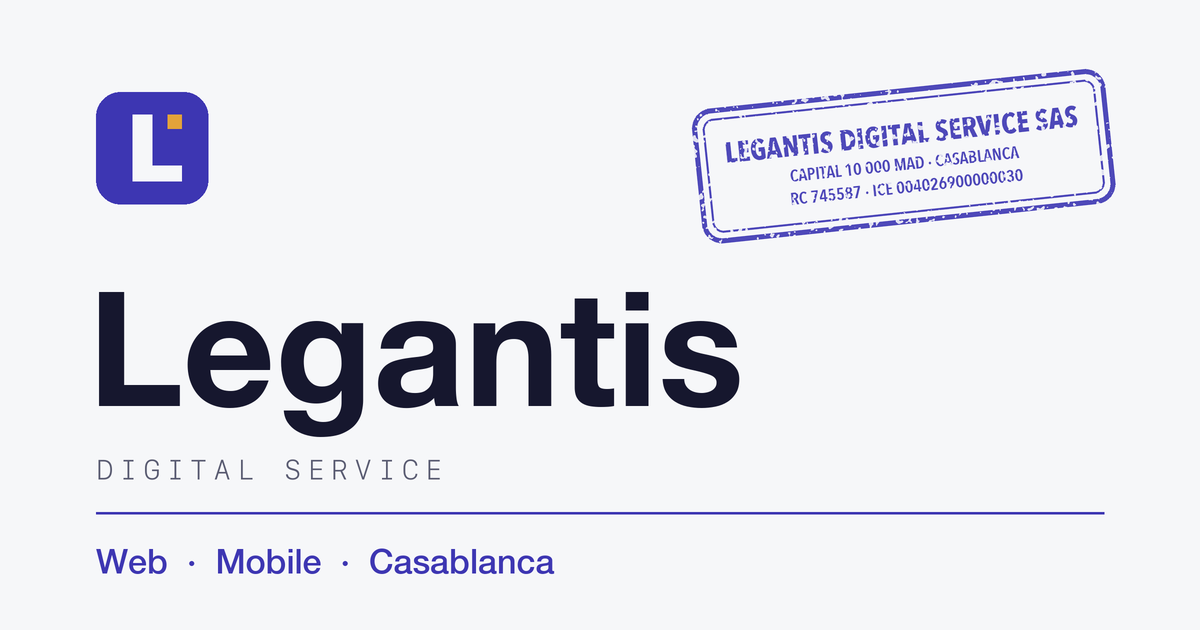
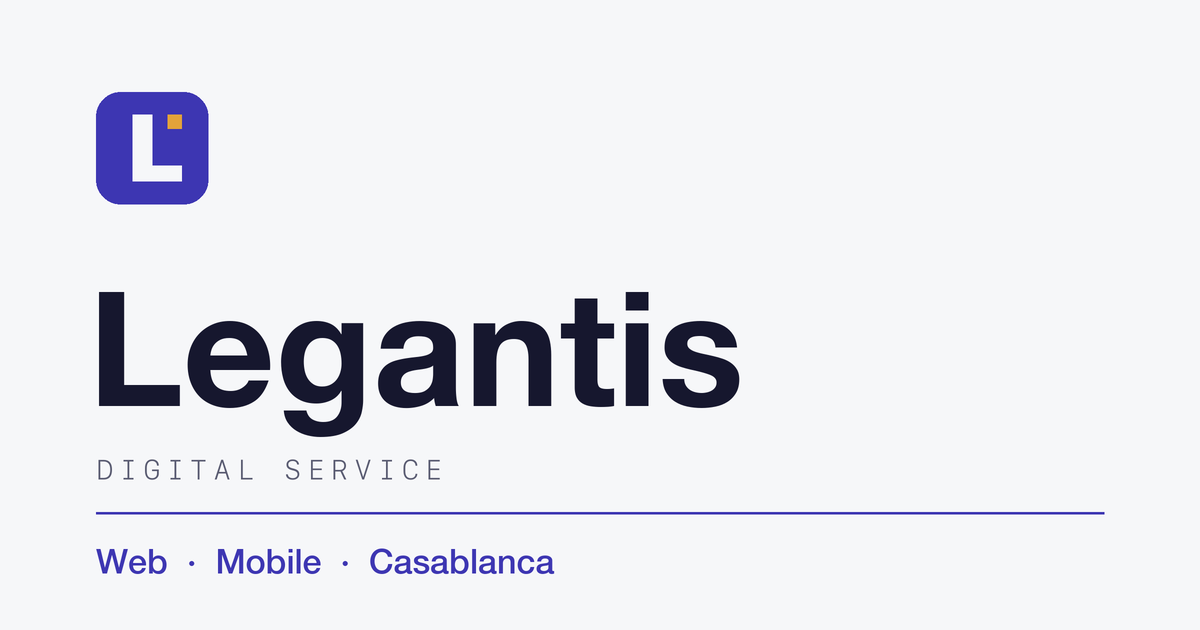
présentation sobre : accueils sans fiche ni cachet, capital une fois par accueil dans une ligne légale, image de partage sans cachet, contrôle de l'identité légale

Changed region(s): [[0.555, 0.0905, 0.925, 0.3921], [0.925, 0.2714, 0.9558, 0.3016]]

diff --git a/site/assets/site.css b/site/assets/site.css
@@ -442,19 +442,18 @@ h1 .mot { display: inline-block; transform-origin: bottom center; animation: mot
 @keyframes barre-voile { to { background: color-mix(in srgb, var(--chaux) 84%, transparent); border-color: var(--filet); backdrop-filter: blur(18px); -webkit-backdrop-filter: blur(18px); } }
 
 /* Projecteur des cartes (lumiere.js, classe .lumiere) : sous le curseur, une lumière douce à l'encre (--lueur) suit la souris dans la
-   carte et le bord de la carte s'allume. Une seule recette pour les six cartes (.prestation, .offre, .titre, .epreuve, .atout, .fiche),
+   carte et le bord de la carte s'allume. Une seule recette pour les cinq cartes (.prestation, .offre, .titre, .epreuve, .atout),
    un seul pseudo-élément par carte, posé par-dessus le contenu sans recevoir le pointeur : un dégradé radial centré en (--sx, --sy),
    le curseur dans le cadre intérieur de la carte (écrit par le script sur la carte survolée seulement). Un masque en exclusion (la
    carte entière à 84 %, contre son cadre entier) laisse le dégradé presque entier sur le liseré de 2 px du bord et le ramène à 16 %
    dans la carte : le même dégradé fait le trait lumineux et la lueur. Extinction en fondu quand le curseur sort (opacité seule, le
    dégradé garde sa dernière place) ; le survol est affaire de :hover, le script n'écrit que la position. Le liseré est dans le cadre
    intérieur : .prestation et .titre rognent leur contenu (overflow: hidden), un trait posé sur leur bordure serait coupé.
-   Support de chaque carte (pseudo-éléments déjà pris, rien n'est déplacé) : ::after partout, sauf .fiche, qui prend ::before pour que
-   le cachet, posé après, reste par-dessus. .prestation a son ::before (lampe du coin), .epreuve le sien (voile du bas), .atout le sien
+   Support de chaque carte (pseudo-éléments déjà pris, rien n'est déplacé) : ::after partout.
+   .prestation a son ::before (lampe du coin), .epreuve le sien (voile du bas), .atout le sien
    (trait d'encre) ; les autres n'en avaient aucun. Le texte est éclairé avec le fond (le tout reste à 4,5:1 sous le cœur, mesuré). */
 @media (hover: hover) and (pointer: fine) and (prefers-reduced-motion: no-preference) {
-  .lumiere :is(.prestation, .offre, .titre, .epreuve, .atout, .pack, .projet, .offre-phare)::after,
-  .lumiere .fiche::before {
+  .lumiere :is(.prestation, .offre, .titre, .epreuve, .atout, .pack, .projet, .offre-phare)::after {
     content: ""; position: absolute; inset: 0; padding: 2px; border-radius: inherit; pointer-events: none;
     --sx: inherit; --sy: inherit;
     background: radial-gradient(circle var(--projecteur-rayon) at calc(var(--sx) + var(--dx, 0px)) calc(var(--sy) + var(--dy, 0px)), var(--projecteur), color-mix(in srgb, var(--projecteur) 62%, transparent) 30%, color-mix(in srgb, var(--projecteur) 26%, transparent) 62%, transparent);
@@ -464,22 +463,7 @@ h1 .mot { display: inline-block; transform-origin: bottom center; animation: mot
     mask-composite: exclude;
     opacity: 0; transition: opacity .45s var(--sortie) .12s;   /* l'extinction attend 0,12 s : une carte qui se soulève sous le pointeur (prestation) le perd un instant à son bord bas et ferait clignoter le liseré */
   }
-  .lumiere :is(.prestation, .offre, .titre, .epreuve, .atout, .pack, .projet, .offre-phare):hover::after,
-  .lumiere .fiche:hover::before { opacity: 1; transition-delay: 0s; }
-  /* Le cachet de la fiche (aria-hidden) déborde du papier : le liseré, qui longe le bord, passe sous ses lignes de texte. En sombre, le
-     texte du cachet tombait à 4,1:1 au protocole des cartes (6,4:1 sans projecteur). Deux retouches propres à cette carte : le liseré
-     reste à 1 px (à 2 px, 4,5:1 tout juste), et un troisième calque du masque, une ellipse douce centrée sur le cachet, retire la
-     lumière autour de lui (composé par intersection avec le reste du masque : le liseré s'éteint en fondu en l'approchant). Le cachet
-     est mesuré à environ 142 px du bord droit du papier et 25 px au-dessus de son bord bas (il ne déborde que de 12 px : le papier a
-     28 px de marge droite) ; l'ellipse est réglée à la main à 114 px et 28 px, soit un écart d'environ 28 px sans effet mesuré sur le
-     contraste. Si la taille ou la place du cachet change, recaler l'ellipse. */
-  .lumiere .fiche::before {
-    padding: 1px;
-    -webkit-mask: radial-gradient(ellipse 210px 90px at calc(100% - min(114px, (100% - 40px) / 2)) calc(100% - 28px), transparent 40%, #000), linear-gradient(rgb(0 0 0 / .84) 0 0) content-box, linear-gradient(#000 0 0);
-    -webkit-mask-composite: source-in, xor, source-over;
-    mask: radial-gradient(ellipse 210px 90px at calc(100% - min(114px, (100% - 40px) / 2)) calc(100% - 28px), transparent 40%, #000), linear-gradient(rgb(0 0 0 / .84) 0 0) content-box, linear-gradient(#000 0 0);
-    mask-composite: intersect, exclude, add;
-  }
+  .lumiere :is(.prestation, .offre, .titre, .epreuve, .atout, .pack, .projet, .offre-phare):hover::after { opacity: 1; transition-delay: 0s; }
 }
 
 /* Curseur personnalisé (lumiere.js) : un point et un anneau accompagnent le pointeur. Dans les zones vides (état « repos »), ils
@@ -513,8 +497,8 @@ h1 .mot { display: inline-block; transform-origin: bottom center; animation: mot
   html.curseur { cursor: none; }
   html.curseur summary { cursor: pointer; }   /* le navigateur n'en donne pas : sans cela le pointeur serait masqué sur un résumé que le script range avec les liens */
   html.curseur [role="button"] { cursor: pointer; }
-  html.curseur :is(p, li, dd, dt, h1, h2, h3, h4, address, .fiche), html.curseur .couverture .domaine { cursor: text; }
-  html.curseur :is(a[href], button, summary, [role="button"], label) :is(p, li, dd, dt, h1, h2, h3, h4, address, .fiche) { cursor: inherit; }
+  html.curseur :is(p, li, dd, dt, h1, h2, h3, h4, address), html.curseur .couverture .domaine { cursor: text; }
+  html.curseur :is(a[href], button, summary, [role="button"], label) :is(p, li, dd, dt, h1, h2, h3, h4, address) { cursor: inherit; }
   html.curseur .couverture img { cursor: default; }
   body > .curseur { position: fixed; left: 0; top: 0; width: 0; height: 0; z-index: 2147483647; pointer-events: none; -webkit-user-select: none; user-select: none; mix-blend-mode: difference;
     opacity: 0; visibility: hidden; transition: opacity .2s ease-out, visibility 0s .2s; }
@@ -781,32 +765,15 @@ html[dir="rtl"] .couverture .ecran { rotate: -4deg; }
 .epreuve p { color: var(--gris); font-size: 0.96rem; }
 .epreuve .support { justify-self: start; margin-top: 8px; padding: 6px 11px; border-radius: 999px; background: var(--tampon-pale); color: var(--tampon); font: 500 0.66rem/1.4 var(--f-mono); letter-spacing: 0.1em; text-transform: uppercase; }
 
-/* Colophon : la société d'un côté, la fiche d'identité tamponnée de l'autre, posée sur un orbe de lumière
-   (l'équivalent de l'illustration « Art01 » de nexus) ; #societe le contient (et le cachet qui déborde sur mobile) */
+/* La société : un court texte de confiance, sans données administratives. L'identité légale est dans .pied-legal et les mentions légales. */
 #societe { overflow-x: clip; }
-.societe { position: relative; isolation: isolate; display: grid; grid-template-columns: minmax(0, 1.05fr) minmax(320px, .95fr); gap: 56px clamp(40px, 6vw, 96px); align-items: start; }
-.societe::before {
-  content: ""; position: absolute; z-index: -1; pointer-events: none;
-  grid-column: 2; grid-row: 1; inset: -10% -55% -16%;
-  background: radial-gradient(closest-side, var(--eclat) 42%, color-mix(in srgb, var(--lueur) 12%, transparent) 62%, transparent 88%);
-}
-@media (prefers-color-scheme: dark) {
-  .societe::before {
-    background: radial-gradient(closest-side, color-mix(in srgb, var(--lueur) 55%, transparent), color-mix(in srgb, var(--lueur) 24%, transparent) 45%, color-mix(in srgb, var(--lueur) 7%, transparent) 72%, transparent);
-    animation: respirer 6s ease-in-out infinite;
-  }
-}
-@keyframes respirer { 50% { opacity: .7; } }
 .societe-texte { position: relative; padding-top: 24px; }
 .numero-fantome { position: absolute; z-index: 0; top: -70px; left: -20px; font-weight: 800; font-size: clamp(9rem, 18vw, 16rem); line-height: 1; font-stretch: 118%; letter-spacing: -0.07em; color: color-mix(in srgb, var(--encre) 4%, transparent); pointer-events: none; user-select: none; }
 .societe-texte > :not(.numero-fantome) { position: relative; z-index: 1; }
 .societe-texte h2 { margin: 18px 0 28px; }
 .societe-texte p { color: var(--gris); font-size: clamp(1.05rem, 1.35vw, 1.2rem); max-width: 50ch; }
-.societe-texte p + p { margin-top: 18px; }
+.societe-texte .actions { margin-top: 30px; animation: none; }
 .note { margin-top: 26px; font-size: 0.92rem; color: var(--gris); max-width: var(--mesure); }
-.fiche { position: relative; background: var(--carte); border: 1px solid var(--filet); border-radius: 8px; padding: 24px 28px 28px; box-shadow: var(--ombre); }
-.fiche h3 { font: 500 0.7rem/1.4 var(--f-mono); letter-spacing: 0.16em; text-transform: uppercase; margin: 0 0 12px; padding-bottom: 14px; border-bottom: 1px solid var(--filet); }
-/* projecteur : ::before de la fiche (libre), pour que le cachet, posé après, reste par-dessus le liseré ; pas d'isolation ajoutée, elle changerait le mélange du cachet */
 .colophon { margin: 0; display: grid; }
 .colophon div { display: grid; grid-template-columns: minmax(8rem, 12rem) minmax(0, 1fr); align-items: baseline; padding: 9px 0; }
 .colophon dt { display: flex; align-items: baseline; font-size: 0.86rem; color: var(--gris); }
@@ -840,8 +807,6 @@ html[dir="rtl"] .couverture .ecran { rotate: -4deg; }
 }
 .cachet b { display: block; font-size: 1.12rem; font-weight: 800; line-height: 1.15; letter-spacing: 0.03em; margin-bottom: 4px; }
 .cachet span { display: block; }
-/* Dans le flux, sous la liste : il déborde du papier par ses marges négatives sans jamais couvrir l'adresse */
-.fiche .cachet { position: relative; width: 308px; max-width: calc(100% + 40px); margin: 24px -40px -56px auto; }
 @keyframes coup-de-tampon {
   from { opacity: 0; transform: rotate(var(--angle)) scale(1.55); }
   65% { opacity: .95; transform: rotate(var(--angle)) scale(.97); }
@@ -893,6 +858,7 @@ html[dir="rtl"] .couverture .ecran { rotate: -4deg; }
 .contact-reseaux dd { column-gap: 28px; }   /* pas de « · » entre les deux : il se logeait sous la ligne de texte, l'écart suffit */
 .logo-reseau { width: 1.3em; height: 1.3em; fill: currentColor; flex: none; }
 .pied-bas .coeur { color: var(--tampon); }
+.pied-legal { margin: 18px 0 0; max-width: 100ch; font-size: 0.74rem; line-height: 1.6; color: var(--gris); overflow-wrap: anywhere; }   /* accueils : art. 43-12 de la loi n° 5-96, une seule fois par page */
 
 /* ── Pages légales et 404 ──────────────────────────────────── */
 main.enveloppe { overflow-x: clip; }   /* 404, mentions : le cachet tourné n'élargit pas la page sur mobile ; découpe au bord de la page, pas au ras du texte */
@@ -1056,10 +1022,7 @@ a.badge { text-decoration: none; transition: border-color .2s, color .2s; }
   .menu-ouvrir { display: inline-flex; }
   .ouverture { min-height: auto; }
   .rond-tournant, .forme--carre { display: none; }
-  .societe { grid-template-columns: minmax(0, 1fr); }
-  .fiche { max-width: 520px; }
   .catalogue, .atouts, .epreuves { grid-template-columns: minmax(0, 1fr); }
-  .societe::before { grid-column: 1; grid-row: 2; inset: -6% -20% -12%; }
 }
 @media (min-width: 901px) {
   .menu-plein:target { display: none; }
@@ -1098,7 +1061,7 @@ a.badge { text-decoration: none; transition: border-color .2s, color .2s; }
   .defile { display: none; }
   .bouton--plein { background: none; color: var(--tampon); box-shadow: none; }
   .couverture { color: var(--encre); } .couverture p { color: var(--gris); } .domaine { background: none; border-color: var(--filet); }
-  .prestation, .titre, .epreuve, .etape, .offre, .fiche, .atout, .suite-bloc { break-inside: avoid; }
+  .prestation, .titre, .epreuve, .etape, .offre, .atout, .suite-bloc { break-inside: avoid; }
   h2, h3, h4, .surtitre, .sous-titre { break-after: avoid; }
   .bloc-tete { break-inside: avoid; break-after: avoid; }
 }

diff --git a/site/index.html b/site/index.html
@@ -519,36 +519,18 @@
 
 
   <section class="section section--2" id="societe" aria-labelledby="societe-titre">
-    <div class="enveloppe societe">
+    <div class="enveloppe">
       <div class="societe-texte reveler">
         <span class="numero-fantome" aria-hidden="true">07</span>
-        <span class="surtitre"><span class="no">07</span>Colophon</span>
-        <h2 id="societe-titre">Une société marocaine, inscrite au registre du commerce.</h2>
-        <p>LEGANTIS DIGITAL SERVICE SAS est une société par actions simplifiée de droit marocain, immatriculée au registre du commerce de Casablanca le 7 septembre 2026, au capital de 10 000 MAD, présidée par Yassir Legmara.</p>
-        <p>Ses trois activités inscrites au registre : édition de logiciels, conseil informatique et vente par Internet. Elle édite Atlasya, Rihla et Ostad et développe des applications pour ses clients.</p>
-        <p class="note">Le détail figure dans les <a href="mentions-legales/">mentions légales</a>.</p>
-      </div>
-      <aside class="fiche reveler" aria-labelledby="fiche-titre">
-        <h3 id="fiche-titre">Fiche d'identité</h3>
-        <dl class="colophon">
-          <div><dt>Dénomination</dt><dd>LEGANTIS DIGITAL SERVICE SAS</dd></div>
-          <div><dt>Forme juridique</dt><dd>Société par actions simplifiée à associé unique</dd></div>
-          <div><dt>Capital social</dt><dd>10 000 MAD</dd></div>
-          <div><dt>Immatriculation</dt><dd>RC Casablanca n° 745587, le 07/09/2026</dd></div>
-          <div><dt>ICE</dt><dd>004026900000030</dd></div>
-          <div><dt>Identifiant fiscal</dt><dd>73343482</dd></div>
-          <div><dt>Activité principale</dt><dd>Édition de logiciels (NMAE 58.29)</dd></div>
-          <div><dt>Président</dt><dd>Yassir Legmara</dd></div>
-          <div><dt>Siège social</dt><dd>Oasis Offices Latitudes, Route de l'Oasis, Bureau 304, Maarif, Casablanca, Maroc</dd></div>
-          <div><dt>Domiciliation</dt><dd>MyLegal Offices</dd></div>
-        </dl>
-        <div class="cachet" aria-hidden="true">
-          <b>Legantis Digital Service SAS</b>
-          <span>Capital 10 000 MAD · Casablanca</span>
-          <span>Oasis Offices Latitudes · Bureau 304 · Maarif</span>
-          <span>RC 745587 · IF 73343482 · ICE 004026900000030</span>
+        <span class="surtitre"><span class="no">07</span>La société</span>
+        <h2 id="societe-titre">Une société marocaine qui édite ses propres applications.</h2>
+        <p>Legantis édite Atlasya, Rihla et Ostad et développe des applications pour ses clients. Elle est immatriculée au registre du commerce de Casablanca.</p>
+        <div class="actions">
+          <a class="bouton bouton--plein" href="estimer-mon-projet/">Demander un devis gratuit <span class="fleche" aria-hidden="true">→</span></a>
+          <a class="bouton bouton--trait" href="realisations/">Découvrir nos réalisations</a>
         </div>
-      </aside>
+        <p class="note">Les informations de la société figurent dans les <a href="mentions-legales/">mentions légales</a>.</p>
+      </div>
     </div>
   </section>
 
@@ -689,7 +671,7 @@
     </div>
     <div class="pied-bas">
       <span>© 2026 LEGANTIS DIGITAL SERVICE SAS</span>
-      <span>Conçu et développé à Casablanca <span class="coeur" aria-hidden="true">◆</span> RC 745587</span>
+      <span>Conçu et développé à Casablanca</span>
       <nav aria-label="Liens de pied de page">
         <a href="mentions-legales/">Mentions légales</a>
         <a class="reseau" href="https://www.linkedin.com/company/legantis-digital-service-sas/"><svg class="logo-reseau" viewBox="0 0 24 24" aria-hidden="true" focusable="false"><path d="M20.447 20.452h-3.554v-5.569c0-1.328-.027-3.037-1.852-3.037-1.853 0-2.136 1.445-2.136 2.939v5.667H9.351V9h3.414v1.561h.046c.477-.9 1.637-1.85 3.37-1.85 3.601 0 4.267 2.37 4.267 5.455v6.286zM5.337 7.433c-1.144 0-2.063-.926-2.063-2.065 0-1.138.92-2.063 2.063-2.063 1.14 0 2.064.925 2.064 2.063 0 1.139-.925 2.065-2.064 2.065zm1.782 13.019H3.555V9h3.564v11.452zM22.225 0H1.771C.792 0 0 .774 0 1.729v20.542C0 23.227.792 24 1.771 24h20.451C23.2 24 24 23.227 24 22.271V1.729C24 .774 23.2 0 22.222 0h.003z"/></svg>LinkedIn</a>
@@ -698,6 +680,7 @@
         <button type="button" class="curseur-standard" aria-pressed="false" hidden>Curseur standard</button>
       </nav>
     </div>
+    <p class="pied-legal">LEGANTIS DIGITAL SERVICE SAS, société par actions simplifiée à associé unique au capital de 10&nbsp;000&nbsp;MAD. Siège social&nbsp;: Oasis Offices Latitudes, Route de l'Oasis, Bureau 304, Maarif, Casablanca, Maroc, société domiciliée chez MyLegal Offices. RC Casablanca n°&nbsp;745587 · ICE 004026900000030 · IF 73343482.</p>
   </div>
 </footer>
 <!-- commercial:contact-rapide type=general --><div class="contact-rapide"><a class="bouton bouton--plein contact-rapide-devis" href="estimer-mon-projet/">Demander un devis gratuit <span class="fleche" aria-hidden="true">→</span></a></div><!-- /commercial -->

diff --git a/site/en/index.html b/site/en/index.html
@@ -423,36 +423,18 @@
 
 
   <section class="section section--2" id="societe" aria-labelledby="societe-titre">
-    <div class="enveloppe societe">
+    <div class="enveloppe">
       <div class="societe-texte reveler">
         <span class="numero-fantome" aria-hidden="true">03</span>
-        <span class="surtitre"><span class="no">03</span>Colophon</span>
-        <h2 id="societe-titre">A Moroccan company, entered in the commercial register.</h2>
-        <p>LEGANTIS DIGITAL SERVICE SAS is a simplified joint-stock company under Moroccan law, entered in the Casablanca Commercial Register on 7 September 2026, with a share capital of MAD 10,000, and presided over by Yassir Legmara.</p>
-        <p>Its three registered activities: software publishing, IT consulting and online sales. It publishes Atlasya, Rihla and Ostad and builds applications for its clients.</p>
-        <p class="note">Full details are in the <a href="legal/">legal notice</a>.</p>
-      </div>
-      <aside class="fiche reveler" aria-labelledby="fiche-titre">
-        <h3 id="fiche-titre">Company details</h3>
-        <dl class="colophon">
-          <div><dt>Legal name</dt><dd>LEGANTIS DIGITAL SERVICE SAS</dd></div>
-          <div><dt>Legal form</dt><dd>Simplified joint-stock company (SAS), single shareholder</dd></div>
-          <div><dt>Share capital</dt><dd>MAD 10,000</dd></div>
-          <div><dt>Registration</dt><dd>Casablanca Commercial Register No. 745587, 7 September 2026</dd></div>
-          <div><dt>ICE</dt><dd>004026900000030</dd></div>
-          <div><dt>Tax ID (IF)</dt><dd>73343482</dd></div>
-          <div><dt>Main activity</dt><dd>Software publishing (NMAE 58.29)</dd></div>
-          <div><dt>President</dt><dd>Yassir Legmara</dd></div>
-          <div><dt>Registered office</dt><dd>Oasis Offices Latitudes, Route de l'Oasis, Bureau 304, Maarif, Casablanca, Morocco</dd></div>
-          <div><dt>Domiciliation</dt><dd>MyLegal Offices</dd></div>
-        </dl>
-        <div class="cachet" aria-hidden="true" lang="fr">
-          <b>Legantis Digital Service SAS</b>
-          <span>Capital 10 000 MAD · Casablanca</span>
-          <span>Oasis Offices Latitudes · Bureau 304 · Maarif</span>
-          <span>RC 745587 · IF 73343482 · ICE 004026900000030</span>
+        <span class="surtitre"><span class="no">03</span>The company</span>
+        <h2 id="societe-titre">A Moroccan company that publishes its own applications.</h2>
+        <p>Legantis publishes Atlasya, Rihla and Ostad and builds applications for its clients. It is entered in the Casablanca Commercial Register.</p>
+        <div class="actions">
+          <a class="bouton bouton--plein" href="#devis">Get a free quote <span class="fleche" aria-hidden="true">→</span></a>
+          <a class="bouton bouton--trait" href="#produits">See our work</a>
         </div>
-      </aside>
+        <p class="note">Company details are in the <a href="legal/">legal notice</a>.</p>
+      </div>
     </div>
   </section>
 
@@ -537,7 +519,7 @@
     </div>
     <div class="pied-bas">
       <span>© 2026 LEGANTIS DIGITAL SERVICE SAS</span>
-      <span>Designed and built in Casablanca <span class="coeur" aria-hidden="true">◆</span> RC 745587</span>
+      <span>Designed and built in Casablanca</span>
       <nav aria-label="Footer links">
         <a href="legal/">Legal notice</a>
         <a class="reseau" href="https://www.linkedin.com/company/legantis-digital-service-sas/"><svg class="logo-reseau" viewBox="0 0 24 24" aria-hidden="true" focusable="false"><path d="M20.447 20.452h-3.554v-5.569c0-1.328-.027-3.037-1.852-3.037-1.853 0-2.136 1.445-2.136 2.939v5.667H9.351V9h3.414v1.561h.046c.477-.9 1.637-1.85 3.37-1.85 3.601 0 4.267 2.37 4.267 5.455v6.286zM5.337 7.433c-1.144 0-2.063-.926-2.063-2.065 0-1.138.92-2.063 2.063-2.063 1.14 0 2.064.925 2.064 2.063 0 1.139-.925 2.065-2.064 2.065zm1.782 13.019H3.555V9h3.564v11.452zM22.225 0H1.771C.792 0 0 .774 0 1.729v20.542C0 23.227.792 24 1.771 24h20.451C23.2 24 24 23.227 24 22.271V1.729C24 .774 23.2 0 22.222 0h.003z"/></svg>LinkedIn</a>
@@ -546,6 +528,7 @@
         <button type="button" class="curseur-standard" aria-pressed="false" hidden>Standard cursor</button>
       </nav>
     </div>
+    <p class="pied-legal">LEGANTIS DIGITAL SERVICE SAS, a simplified joint-stock company with a single shareholder and a share capital of MAD&nbsp;10,000. Registered office: Oasis Offices Latitudes, Route de l'Oasis, Bureau 304, Maarif, Casablanca, Morocco, domiciled with MyLegal Offices. Casablanca Commercial Register No.&nbsp;745587 · ICE 004026900000030 · Tax ID (IF) 73343482.</p>
   </div>
 </footer>
 </body>

diff --git a/site/assets/lumiere.js b/site/assets/lumiere.js
@@ -228,7 +228,7 @@
      l'entrée dans la carte, puis seulement après un défilement, un redimensionnement ou la fin de son soulèvement au survol
      (la carte monte de 3 px : l'origine lue en entrant serait décalée d'autant). Le suivi n'est abonné que tant qu'une carte est visible. */
   (function () {
-    var CARTES = '.prestation, .offre, .titre, .epreuve, .atout, .fiche, .pack, .projet, .offre-phare';
+    var CARTES = '.prestation, .offre, .titre, .epreuve, .atout, .pack, .projet, .offre-phare';
     var cartes = document.querySelectorAll(CARTES);
     if (!cartes.length) return;   // pages légales et 404 : aucune carte, rien à suivre
 
@@ -325,7 +325,7 @@
   (function () {
     var LIENS = 'a[href], button, summary, [role="button"], label, .comparaison--active .comparaison-cadre';
     var VUE = '.couverture';
-    var TEXTE = 'p, li, dd, dt, h1, h2, h3, h4, address, .fiche, input, textarea, select';   // champs du formulaire de devis : le navigateur leur donne son curseur (barre de texte, flèche), la CSS n'a rien à écrire
+    var TEXTE = 'p, li, dd, dt, h1, h2, h3, h4, address, input, textarea, select';   // champs du formulaire de devis : le navigateur leur donne son curseur (barre de texte, flèche), la CSS n'a rien à écrire
     var SOUS_LE_LIBELLE = TEXTE + ', .domaine, img';   // dans la vue, ce qui porte du texte ou une image : pas de libellé par-dessus, et le pointeur natif y reste (la CSS le lui rend : même liste)
     var SUR_BANDE = '.chiffres';                  // surfaces d'indigo moyen, où l'inverse du blanc a presque la même luminance : le curseur s'y adapte (voir site.css)
     var SUR_INDIGO = '.bouton--plein, .barre-cta';

diff --git a/outils/images.py b/outils/images.py
@@ -1,9 +1,9 @@
 """Génère site/assets/apple-touch-icon.png (180 px) et site/assets/partage.png (1200x630, Open Graph)
-à partir du dessin de site/assets/favicon.svg et du cachet de l'accueil. Lancer depuis la racine du dépôt :
+à partir du dessin de site/assets/favicon.svg. Lancer depuis la racine du dépôt :
     arch -x86_64 python3 outils/images.py
 (Pillow est installé en x86_64 sur cette machine : sans `arch`, l'import échoue.)"""
 import os
-from PIL import Image, ImageChops, ImageDraw, ImageFilter, ImageFont
+from PIL import Image, ImageDraw, ImageFont
 
 SITE = os.path.join(os.path.dirname(os.path.abspath(__file__)), "..", "site", "assets")
 # Mêmes valeurs que les jetons de site.css (thème clair)
@@ -38,31 +38,6 @@ def police(candidats, taille):
     raise SystemExit(f"aucune police trouvée parmi {candidats}")
 
 
-def cachet(largeur, hauteur, lignes, S):
-    """Le cachet de l'accueil : double filet, lignes centrées, encre usée. Renvoie une image RGBA non tournée."""
-    im = Image.new("RGBA", (largeur, hauteur), (0, 0, 0, 0))
-    d = ImageDraw.Draw(im)
-    e = 5 * S
-    d.rounded_rectangle([e // 2, e // 2, largeur - e // 2, hauteur - e // 2], radius=20 * S, outline=TAMPON, width=e)
-    i = 13 * S
-    d.rounded_rectangle([i, i, largeur - i, hauteur - i], radius=11 * S, outline=TAMPON, width=2 * S)
-    total = sum(f.size * interligne for _, f, interligne in lignes)
-    y = (hauteur - total) / 2
-    for texte, f, interligne in lignes:
-        d.text(((largeur - d.textlength(texte, font=f)) / 2, y), texte, font=f, fill=TAMPON)
-        y += f.size * interligne
-    # Usure : ~10 % de l'encre manque, par petites taches (bruit flouté puis seuillé au 90e centile)
-    bruit = Image.effect_noise((largeur, hauteur), 90).filter(ImageFilter.GaussianBlur(1.1 * S))
-    hist, cumul = bruit.histogram(), 0
-    for seuil, n in enumerate(hist):
-        cumul += n
-        if cumul >= 0.90 * largeur * hauteur:
-            break
-    masque = bruit.point(lambda v: 230 if v < seuil else 30)
-    im.putalpha(ImageChops.multiply(im.getchannel("A"), masque))
-    return im
-
-
 # Icône iOS : carré plein (iOS arrondit lui-même), rendu 4x puis réduit pour l'anticrénelage
 S = 4
 img = Image.new("RGB", (180 * S, 180 * S), TAMPON)
@@ -77,8 +52,6 @@ d = ImageDraw.Draw(img)
 titre = police([("/System/Library/Fonts/HelveticaNeue.ttc", "Bold"), ("/System/Library/Fonts/Supplemental/Arial Bold.ttf", None)], 160 * S)
 mono = police([("/System/Library/Fonts/SFNSMono.ttf", None), ("/System/Library/Fonts/Menlo.ttc", None)], 28 * S)
 sans = police([("/System/Library/Fonts/HelveticaNeue.ttc", "Medium"), ("/System/Library/Fonts/Supplemental/Arial.ttf", None)], 34 * S)
-etroite = [("/System/Library/Fonts/Avenir Next Condensed.ttc", "Bold"), ("/System/Library/Fonts/Supplemental/Arial Narrow Bold.ttf", None)]
-etroite_fine = [("/System/Library/Fonts/Avenir Next Condensed.ttc", "Demi Bold"), ("/System/Library/Fonts/Supplemental/Arial Narrow Bold.ttf", None)]
 
 marge = 96 * S
 marque(d, marge, 92 * S, 112 * S)
@@ -90,12 +63,6 @@ for lettre in "DIGITAL SERVICE":  # interlettrage à la main, comme le .marque s
 d.rectangle([marge, 512 * S, W - marge, 512 * S + 2 * S], fill=TAMPON)
 d.text((marge, 540 * S), "Web  ·  Mobile  ·  Casablanca", font=sans, fill=TAMPON)
 
-tampon = cachet(420 * S, 140 * S, [
-    ("LEGANTIS DIGITAL SERVICE SAS", police(etroite, 29 * S), 1.3),
-    ("CAPITAL 10 000 MAD · CASABLANCA", police(etroite_fine, 17 * S), 1.35),
-    ("RC 745587 · ICE 004026900000030", police(etroite_fine, 17 * S), 1.2),
-], S).rotate(6, resample=Image.BICUBIC, expand=True)
-img.paste(tampon, (W - marge - tampon.width + 16 * S, 64 * S), tampon)
 img.resize((1200, 630), Image.LANCZOS).save(f"{SITE}/partage.png", optimize=True)
 
 for f in ("apple-touch-icon.png", "partage.png"):

diff --git a/outils/controles_site.py b/outils/controles_site.py
@@ -329,6 +329,26 @@ if os.path.exists(CONFIG):
             for m in re.findall(r'(\d[\d ]*\d|\d)\s*(?:MAD|DH|dirhams)\b', t):
                 if m.strip() not in ADMIS | montants_valides: echecs.append(f'{relatif}: montant « {m} MAD » non validé dans config/commercial.json')
             if not conf.get('packs') and re.search(r'\b(pack starter|pack business|prix_mad)\b', re.sub(r'<script type="application/ld\+json">.*?</script>', '', t, flags=re.S), re.I) and not relatif.endswith('conversion.js'): echecs.append(f'{relatif}: offre non validée publiée')
+# identité légale (loi n° 5-96, art. 43-12 et 43-14) : le capital figure une fois par accueil, dans .pied-legal avec la dénomination, la forme, le siège et le RC, et une fois
+# par page légale avec tous les identifiants ; il n'apparaît nulle part ailleurs : les pages commerciales restent sobres. Élargir cette règle si le juriste le demande.
+def visible(h): return re.sub(r'\s+', ' ', re.sub(r'<[^>]+>', ' ', re.sub(r'<(script|style)\b.*?</\1>|<!--.*?-->', '', h, flags=re.S))).replace('&nbsp;', ' ').replace('\u00a0', ' ')
+MONTANT_CAPITAL = re.compile(r'\b10 000 MAD\b|\bMAD 10,000\b|\bcapital 10 000\b', re.I)
+LIGNE_LEGALE = {BASE: ('LEGANTIS DIGITAL SERVICE SAS', 'société par actions simplifiée à associé unique', '10 000 MAD', 'Oasis Offices Latitudes, Route de l\'Oasis, Bureau 304, Maarif, Casablanca', 'MyLegal Offices', 'RC Casablanca n° 745587', '004026900000030', '73343482'),
+                BASE + 'en/': ('LEGANTIS DIGITAL SERVICE SAS', 'simplified joint-stock company with a single shareholder', 'MAD 10,000', 'Oasis Offices Latitudes, Route de l\'Oasis, Bureau 304, Maarif, Casablanca', 'MyLegal Offices', 'Casablanca Commercial Register No. 745587', '004026900000030', '73343482')}
+PAGES_LEGALES = {BASE + 'mentions-legales/': ('LEGANTIS DIGITAL SERVICE SAS', '10 000 MAD', 'Oasis Offices Latitudes', 'MyLegal Offices', 'Casablanca n° 745587', '07/09/2026', '004026900000030', '73343482', '34706792', 'Yassir Legmara'),
+                 BASE + 'en/legal/': ('LEGANTIS DIGITAL SERVICE SAS', 'MAD 10,000', 'Oasis Offices Latitudes', 'MyLegal Offices', 'Casablanca No. 745587', '7 September 2026', '004026900000030', '73343482', '34706792', 'Yassir Legmara')}
+for u in pages:
+    h = open(fichier(u), encoding='utf-8').read(); t = visible(h); nb = len(MONTANT_CAPITAL.findall(t))
+    attendu = 1 if u in LIGNE_LEGALE or u in PAGES_LEGALES else 0
+    if nb != attendu: echecs.append(f'{u}: capital social affiché {nb} fois, {attendu} attendue(s)')
+    if u in LIGNE_LEGALE:
+        ligne = re.search(r'<p class="pied-legal">(.*?)</p>', h, re.S)
+        for mot in LIGNE_LEGALE[u]:
+            if not ligne or mot not in visible(ligne.group(1)): echecs.append(f'{u}: ligne légale sans « {mot} »')
+    for mot in PAGES_LEGALES.get(u, ()):
+        if mot not in t: echecs.append(f'{u}: page légale sans « {mot} »')
+IMAGES = os.path.join(RACINE, '..', 'outils', 'images.py')
+if os.path.exists(IMAGES) and 'CAPITAL' in open(IMAGES, encoding='utf-8').read(): echecs.append('outils/images.py : capital sur l\'image de partage')
 import subprocess
 if os.path.exists(os.path.join(RACINE, '..', 'outils', 'commercial.py')) and os.path.abspath(RACINE) == os.path.abspath(os.path.join(os.path.dirname(os.path.abspath(__file__)), '..', 'site')):
     r = subprocess.run([sys.executable, os.path.join(RACINE, '..', 'outils', 'commercial.py'), '--verifier'], capture_output=True, text=True)
